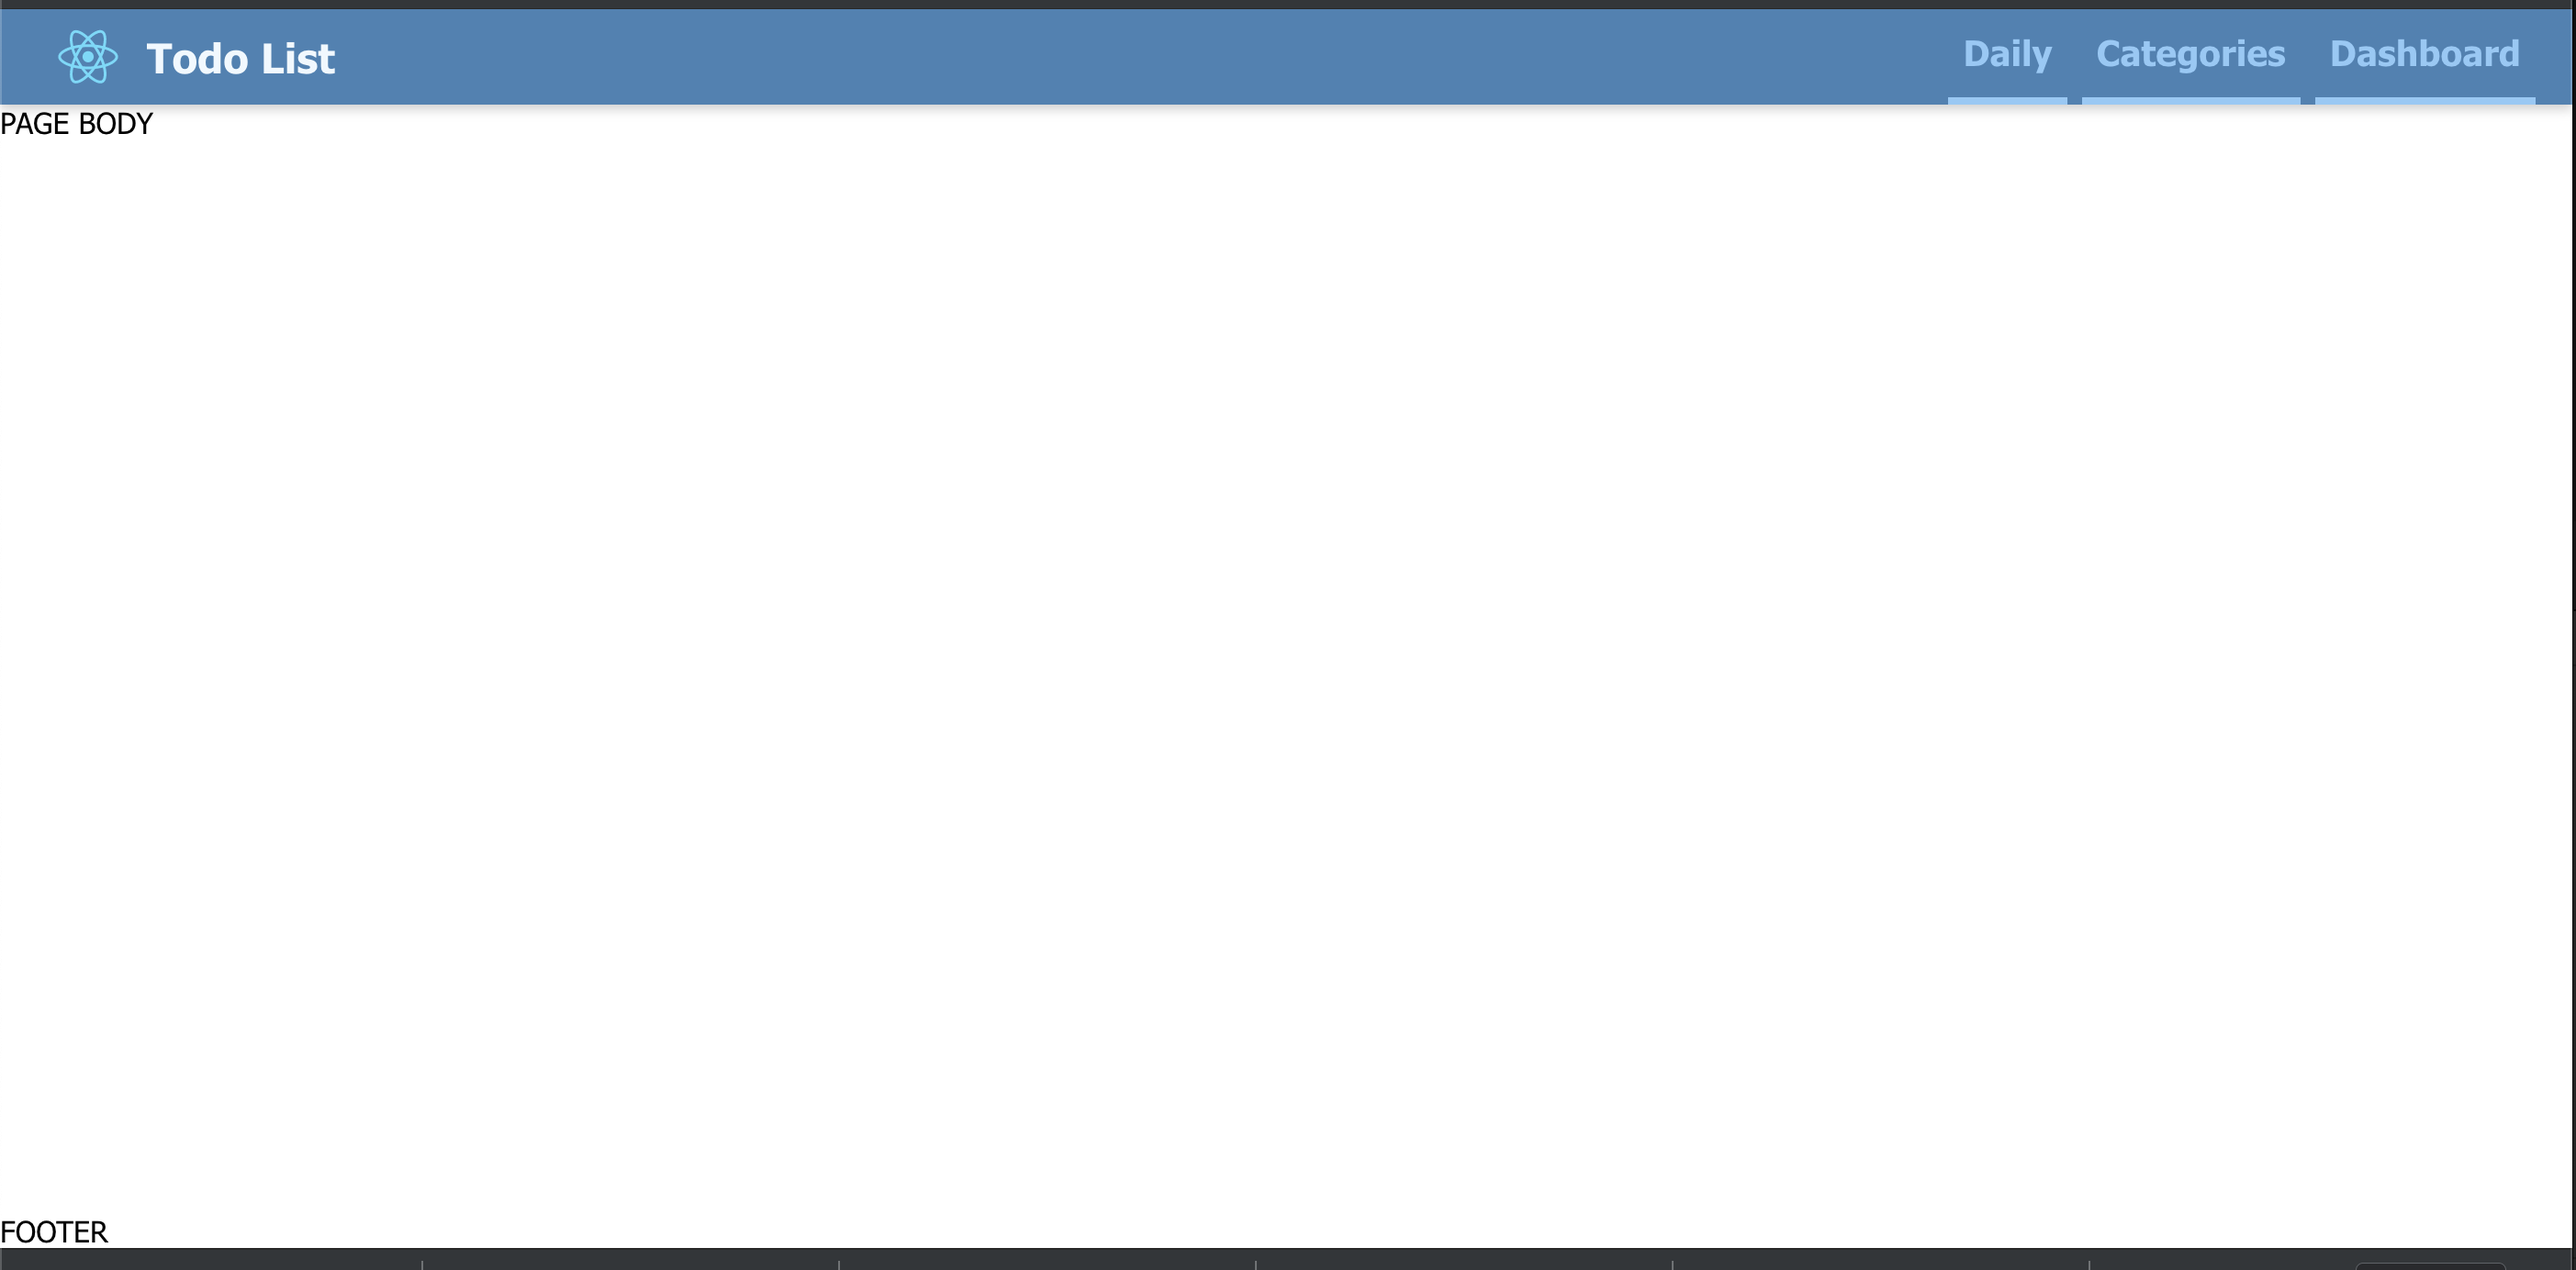
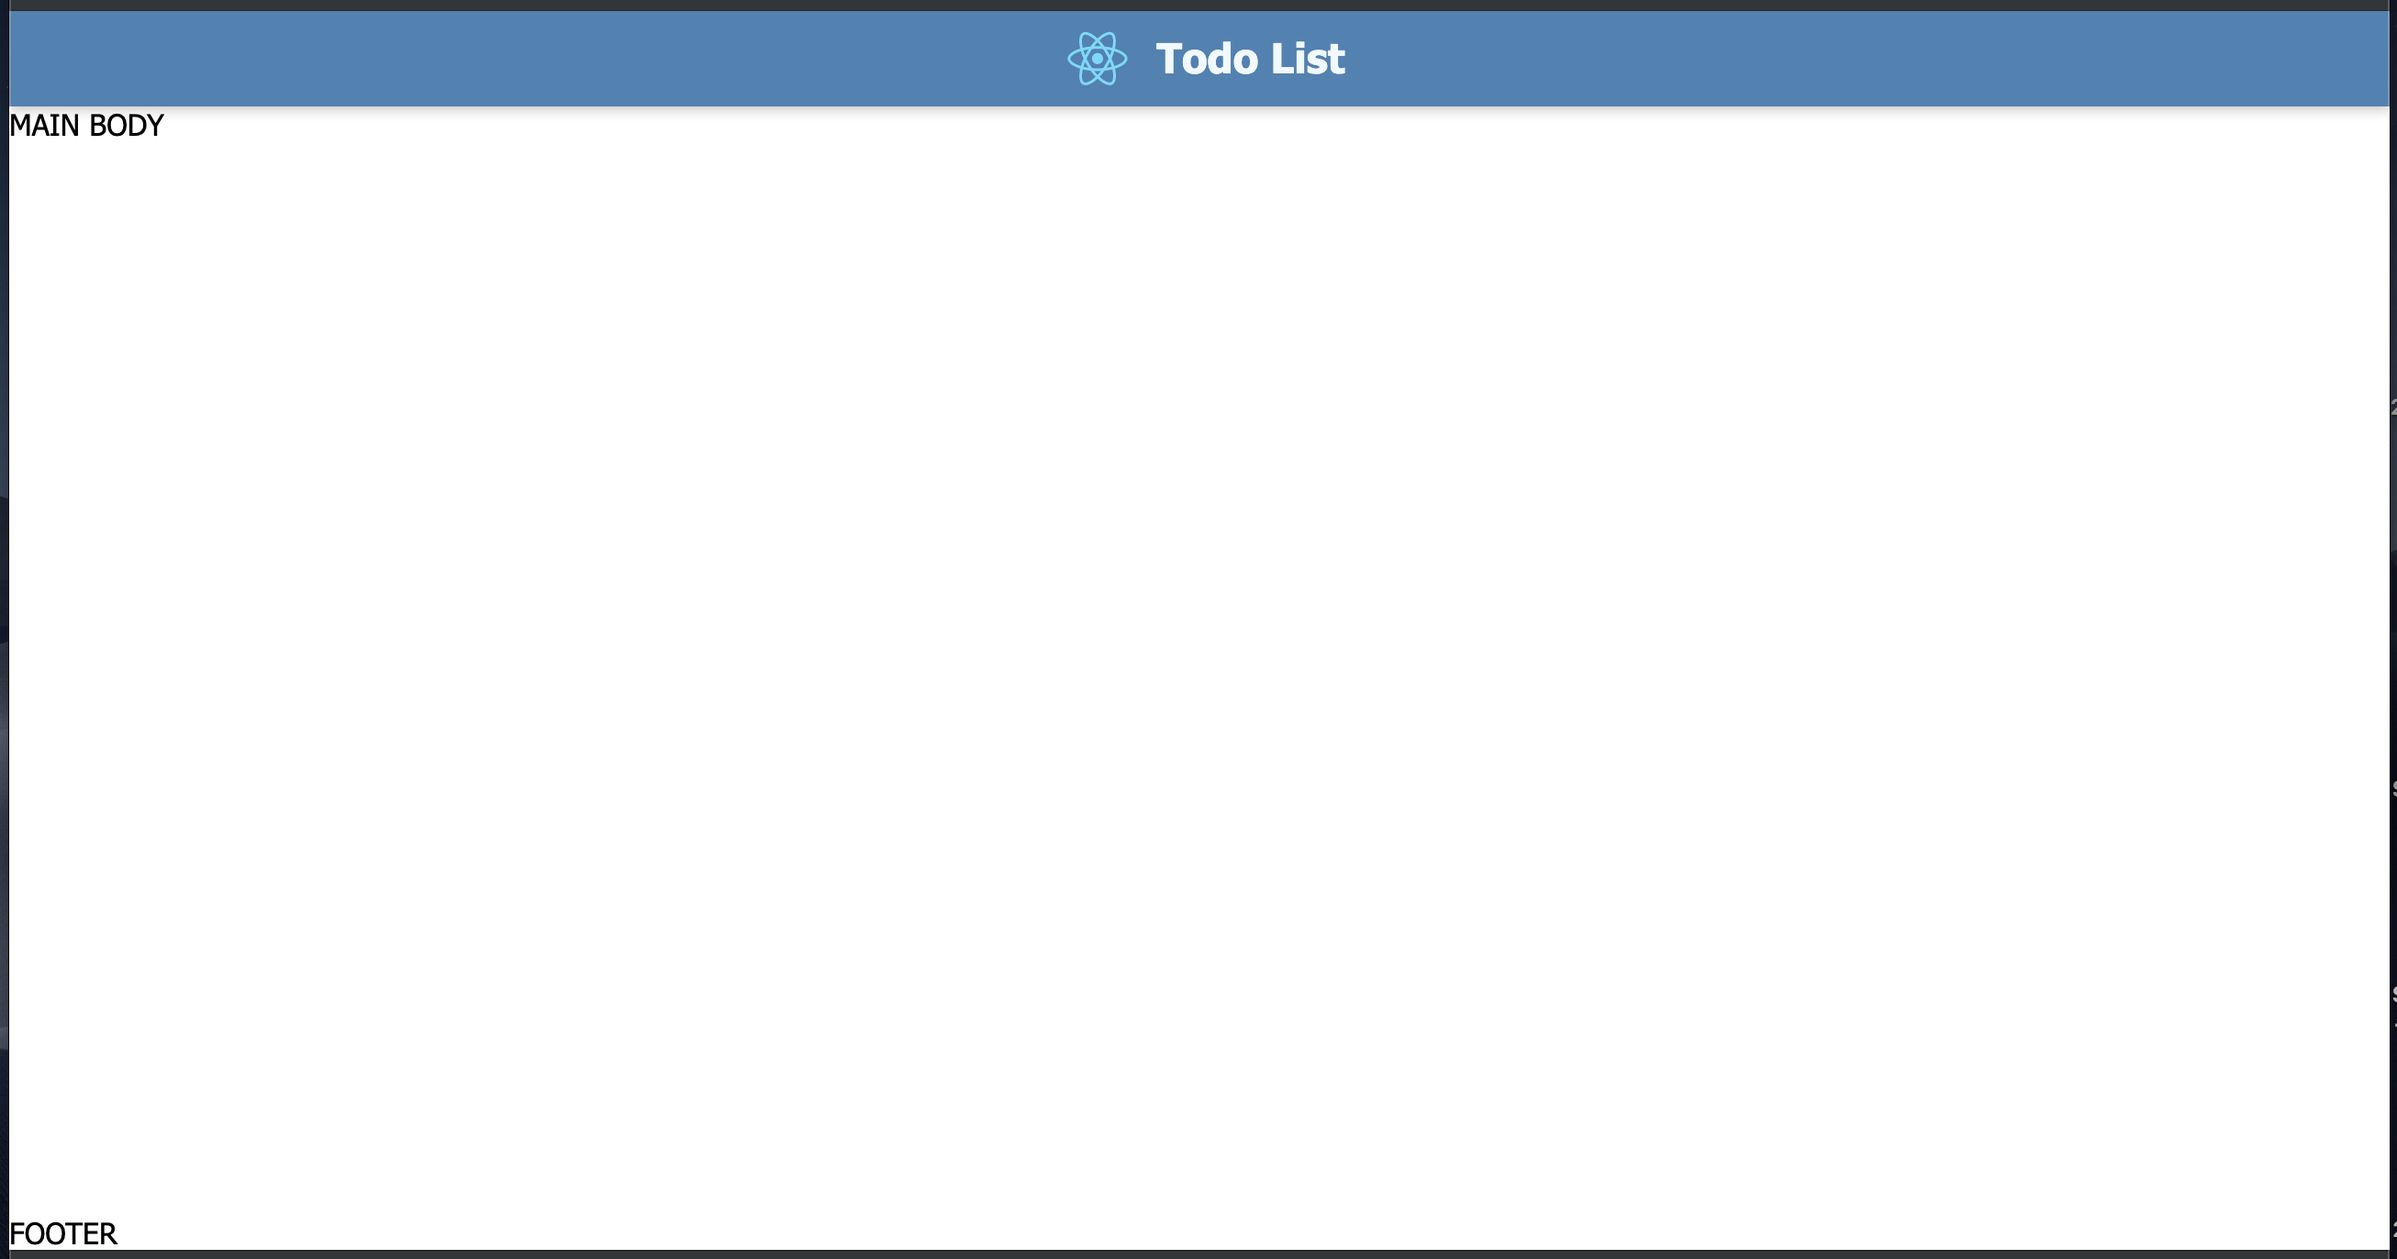
updating documentation for the walkthrough of Phase 1.2, Header content

Changed region(s): [[0.0, 0.0, 1.0, 1.0], [0.4342, 0.0306, 0.5582, 0.0918]]

diff --git a/README.md b/README.md
@@ -452,3 +452,138 @@ These styles are module specific styling that force the footer content to the bo
 
 [Code Sample](https://github.com/myronschippers/todo-list-app/tree/feature-phase-1-1)
 <img alt="Completing Phase 1.1" src="images/phase1.1-complete.png" />
+
+### Phase 1.2: Header Markup and Styling
+
+In **Phase 1.2** we're gonna update our application page content by creating the header content that will include a logo and name of the application. This concept of all of this content at the top of the page within a solid color block is referred to as an **App Bar** in most design/web shops.
+
+**Sample Repo Branch:**
+
+* [Todo after Phase 1.2](https://github.com/myronschippers/todo-list-app/tree/feature-phase-1-2)
+
+**Editing (files):**
+
+* `App.js` - located at `./src/components/App/App.js`
+* `App.css` - located at `./src/components/App/App.css`
+
+One of the things we'll leverage from the React content that `create-react-app` stubbed in for us is the React Logo SVG. We left the logo import at the to of the `App.js` where it says `import logo from './logo.svg';`. When the logo is imported we store it in the `logo` variable so we can use it in our JSX later on. 
+
+```JS
+import React, { Component } from 'react';
+import logo from './logo.svg';
+import './App.css';
+```
+
+In the below code snippet we see the entire App component code but all we're updating is the JSX for the markup displayed to the user in place of the `HEADER` text we hand in there as a placeholder before. This new content starts with the `<header className="appBar">` element.
+
+```JS
+class App extends Component {
+    render() {
+        return (
+            <div className="scaffold">
+                <div className="scaffold-hd">
+                    <header className="appBar">
+                        <div className="appBar-identity">
+                            <img src={logo} className="logoIcon" alt="logo" />
+                            <h1 className="primeHdg">Todo List</h1>
+                        </div>
+                    </header>
+                </div>
+                <div className="scaffold-bd">
+                    MAIN BODY
+                </div>
+                <div className="scaffold-ft">
+                    FOOTER
+                </div>
+            </div>
+        );
+    }
+}
+```
+
+Let's take a look at some of what is going on in our JSX code. Take particular notice of the `<img>` tag inside of `<div className="appBar-identity">`. For our `src` attribute you'll notice that we are using curly brackets after the `=` instead of quotes like in our standard HTML. We open up curly brackets (`src={}`) any time we want to insert Javascript into our JSX. This is a generalization but it's a good way to think about it. In this particular scenario it's the `logo` that we have imported with Javascript that we want to ser as the `src={log}` for our logo.
+
+The other thing you may have noticed is that we aren't using a `class` attribute on our elements but are instead using an attribute of `className`. In JSX if we want to add a class for styling an element we have to use `<div className="style-class">`.
+
+If we had stored a set of class names in a variable:
+
+*example code not part of application:*
+
+```JS
+render() {
+    const largeBtn = 'btn btn_big';
+
+    return (
+```
+
+we could use that variable for the value of the class name:
+
+*example code not part of application:*
+```JS
+render() {
+    const largeBtn = 'btn btn_big';
+
+    return (
+        <div className={largeBtn}>
+```
+
+This approach becomes particularly helpful when we need to conditionally alter the classes being used on our elements.
+
+All of our markup is in place but let's add some styling to the bottom of `App.css` in order to make our header content look a little more like an application.
+
+```CSS
+/* ----------------------------------------------------------------------
+App Bar
+---------------------------------------------------------------------- */
+
+.appBar {
+    display: flex;
+    flex-flow: row wrap;
+    justify-content: center;
+    align-items: center;
+    box-sizing: border-box;
+    width: 100%;
+    padding: 0 20px 0;
+    background: #4682B4;
+    box-shadow: 0px 2px 6px rgb(0, 0, 0, 0.2);
+    position: relative;
+    z-index: 800;
+}
+
+.appBar-identity {
+    padding: 6px 0;
+    color: #f0f8ff;
+}
+
+.appBar-actions {
+    padding: 0;
+}
+
+/* ----------------------------------------------------------------------
+Primary Heading (app bar content)
+---------------------------------------------------------------------- */
+
+.primeHdg {
+    display: inline-block;
+    margin: 0;
+    padding: 0 4px;
+    font-size: 1.4rem;
+    vertical-align: middle;
+}
+
+/* ----------------------------------------------------------------------
+Logo Icon (app bar content)
+---------------------------------------------------------------------- */
+
+.logoIcon {
+    display: inline-block;
+    width: 3.5rem;
+    vertical-align: middle;
+}
+
+```
+
+Let's check our browser again to make sure there are no errors and that our styles are showing up correctly for our new header content. It should look something like this.
+
+[Code Sample](https://github.com/myronschippers/todo-list-app/tree/feature-phase-1-2)
+<img alt="Application after completing Phase 1.2" src="images/phase1.2-complete.png" />

diff --git a/README_ARCHIVE.md b/README_ARCHIVE.md
@@ -269,7 +269,7 @@ import logo from './logo.svg';
 import './App.css';
 ```
 
-In the below code snippet we see the entire App component code but all we're updating is the JSX for the markup displayed to the user in place of the `HEADER` text we hand in there as a placeholder before.
+In the below code snippet we see the entire App component code but all we're updating is the JSX for the markup displayed to the user in place of the `HEADER` text we hand in there as a placeholder before. This new content starts with the `<header className="appBar">` element.
 
 ```JS
 class App extends Component {
@@ -311,7 +311,7 @@ class App extends Component {
 }
 ```
 
-Let's check our browser again to make sure there are no error and that our styles are showing up correctly for out new header content. It should look something like this.
+Let's check our browser again to make sure there are no errors and that our styles are showing up correctly for our new header content. It should look something like this.
 
 [Code Sample](https://github.com/myronschippers/todo-list-app/tree/feature-phase-1-2)
 <img alt="Application after completing Phase 1.2" src="images/phase1.2-complete.png" />
